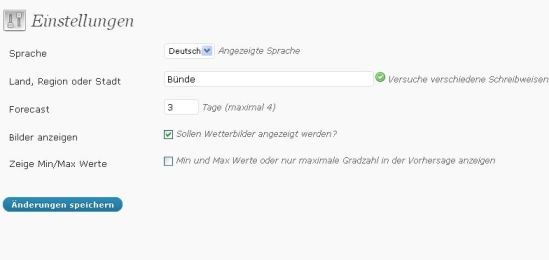
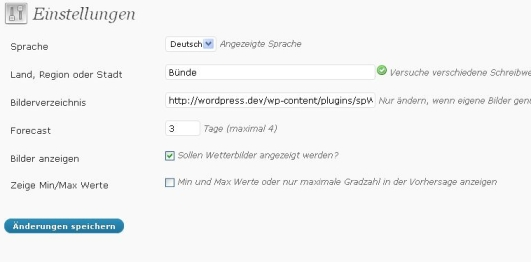
Optional path for own pictures
git-svn-id: https://plugins.svn.wordpress.org/spweather/trunk@134671 b8457f37-d9ea-0310-8a92-e5e31aec5664

diff --git a/spweather.php b/spweather.php
@@ -1,10 +1,10 @@
 <?php
 /*
  Plugin Name: spWeather
- Plugin URI: http://wordpress.org/extend/plugins/spweather/
+ Plugin URI: http://www.scriptpara.de/skripte/spweather/
  Description: Shows the actual weather in your Region
  Author: Sebastian Klaus
- Version: 1.3
+ Version: 1.4
  Author URI: http://www.scriptpara.de
  */
 
@@ -59,6 +59,12 @@ function spWeatherSettings(){
 	$result .= '<th scope="row"><label for="spWeatherRegion">'.__('Country, region or city', 'spWeather').'</label></th>';
 	$spWeatherCityFound = ($settings->spWeatherCityFound == 'yes') ? '<img src="'.get_option('siteurl').'/wp-content/plugins/spWeather/icons/accept.png" alt="">' : '<img src="'.get_option('siteurl').'/wp-content/plugins/spWeather/icons/cancel.png" alt="">';
 	$result .= '<td><input type="text" class="regular-text" value="'.$settings->spWeatherRegion.'" id="spWeatherRegion" name="spWeatherRegion"/>'.$spWeatherCityFound.' <span class="description">'.__('Try different spellings, if you get no results', 'spWeather').'</span></td>';
+	$result .= '</tr>';
+	$result .= '</tr>';
+	$result .= '<tr valign="top">';
+	$result .= '<th scope="row"><label for="spWeatherPicturePath">'.__('Picturs folder', 'spWeather').'</label></th>';
+	$spWeatherPicturePath = ($settings->spWeatherPicturePath == '') ? get_option('siteurl').'/wp-content/plugins/spWeather/images/' : $settings->spWeatherPicturePath;
+	$result .= '<td><input type="text" class="regular-text" value="'.$spWeatherPicturePath.'" id="spWeatherPicturePath" name="spWeatherPicturePath"/> <span class="description">'.__('Change only, when you want to use your own pictures (names must be the same)', 'spWeather').'</span></td>';
 	$result .= '</tr>';
 	$result .= '<tr valign="top">';
 	$result .= '<th scope="row"><label for="spWeatherForecast">'.__('Forecast', 'spWeather').'</label></th>';
@@ -203,7 +209,9 @@ class spWeather_objectbuilder {
 			$new_icon = file_get_contents('http://www.google.de' . $AIcon);
 			file_put_contents($path . $icon, $new_icon);
 		}
-		return get_option('siteurl').'/wp-content/plugins/spWeather/images/' . $icon;
+		$settings = spWeatherGetSettings();
+		$spWeatherPicturePath = ($settings->spWeatherPicturePath == '') ? get_option('siteurl').'/wp-content/plugins/spWeather/images/' : $settings->spWeatherPicturePath;
+		return $spWeatherPicturePath . $icon;
 	}
 
 	/**
